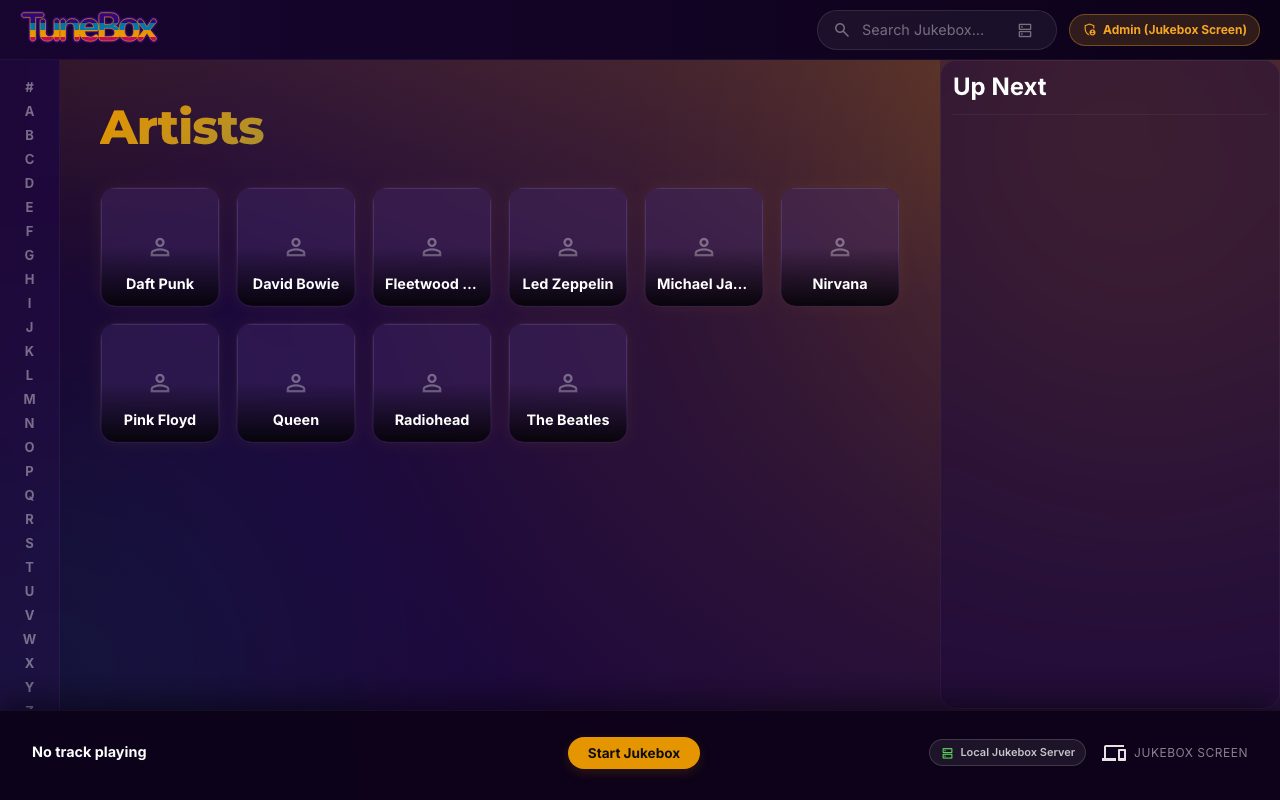
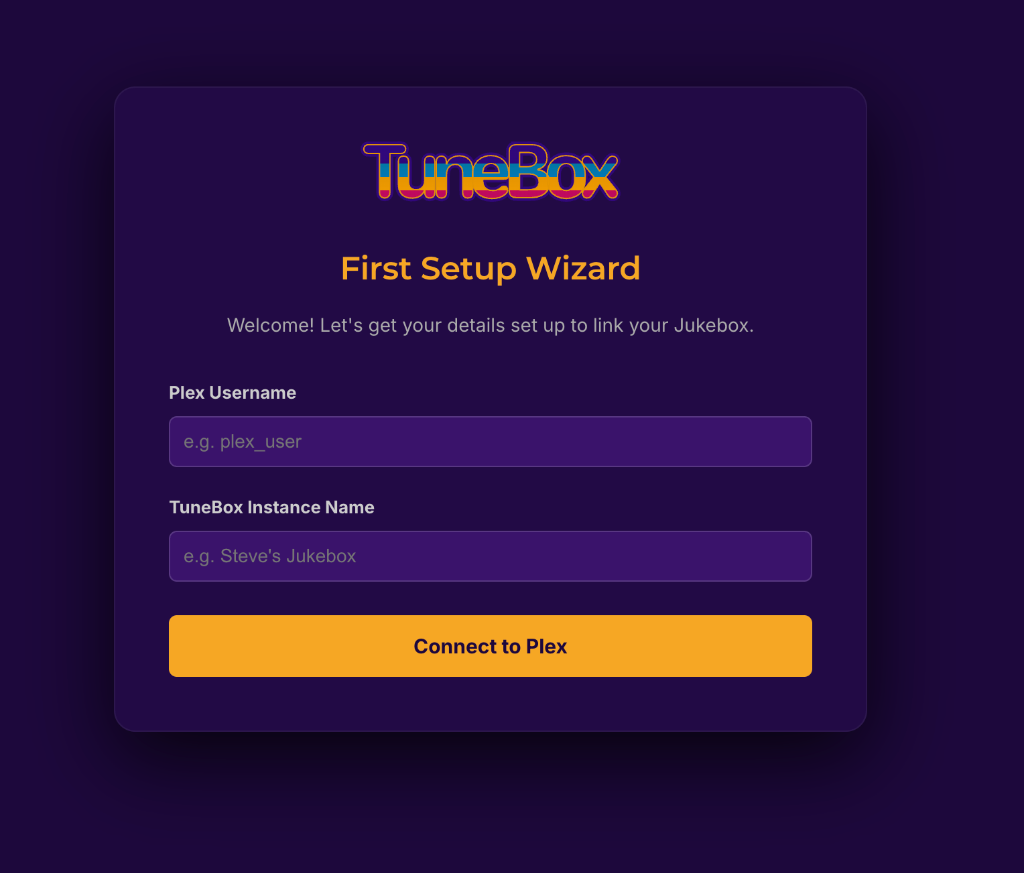
docs: replace README screenshots with authentic user-provided app captures
- Replace automated mock screenshots with authentic user captures.
- Add Led Zeppelin Albums discography view.
- Add Led Zeppelin IV track list & live player queue view.
- Add complete Setup Wizard step-by-step screenshots (Initial config, PIN auth, Server/Player selection).

diff --git a/README.md b/README.md
@@ -20,25 +20,25 @@
 
 ## 📷 Screenshots
 
-### 🎵 Main Jukebox & Queue
-![Main Jukebox & Queue](docs/images/jukebox_queue.png)
-*Browse artists, search across Plex libraries, view active party queue, and control playback.*
-
 ### 💿 Artist Albums (Led Zeppelin)
 ![Led Zeppelin Albums](docs/images/led_zeppelin_albums.png)
-*Explore complete discographies with high-resolution album artwork.*
+*Explore complete artist discographies with high-resolution album artwork.*
 
-### 🎶 Album Track List (Led Zeppelin II)
-![Led Zeppelin II Track List](docs/images/led_zeppelin_ii_tracks.png)
-*View album tracks, song durations, and quickly add tracks to the shared party queue.*
+### 🎶 Album Track List & Player Queue (Led Zeppelin IV)
+![Led Zeppelin Tracks & Player](docs/images/led_zeppelin_tracks.png)
+*View album track listings, queue songs to the party Jukebox, and monitor current playback.*
 
-### 📱 Guest Access & QR Code Sharing
-![Guest QR Code Access](docs/images/guest_qr_modal.png)
-*Scan the QR code to instantly join the party jukebox session without account sign-in.*
-
-### 🔐 Setup Wizard
+### 🔐 Setup Wizard - Initial Configuration
 ![Setup Wizard](docs/images/setup_wizard.png)
-*Streamlined first-run wizard to connect Plex Media Server and select playback devices.*
+*Welcome screen to configure your Plex username and TuneBox instance name.*
+
+### 🔑 Setup Wizard - Plex PIN Authorization
+![Plex PIN Authorization](docs/images/plex_pin_auth.png)
+*Secure authorization via Plex account PIN link.*
+
+### 🎛️ Setup Wizard - Server & Player Selection
+![Select Plex Server](docs/images/select_plex_server.png)
+*Select your target Plex Media Server and active playback device.*
 
 ---
 